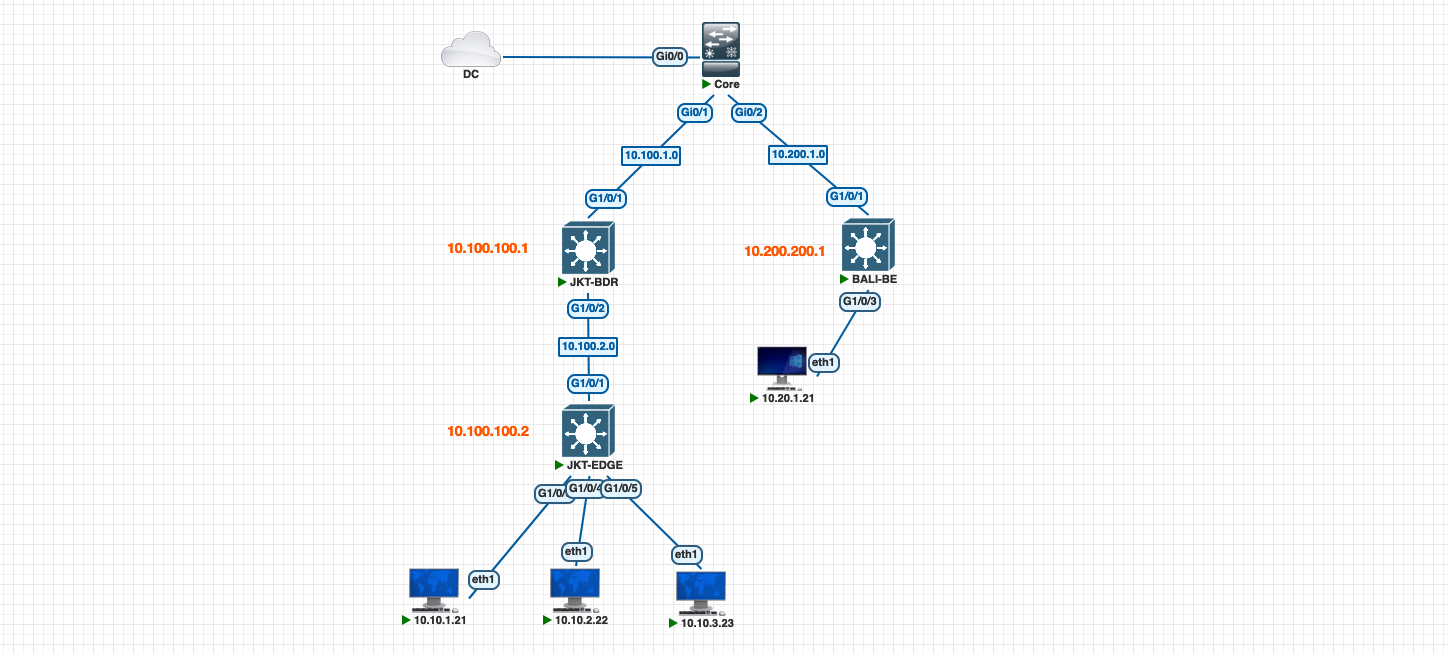
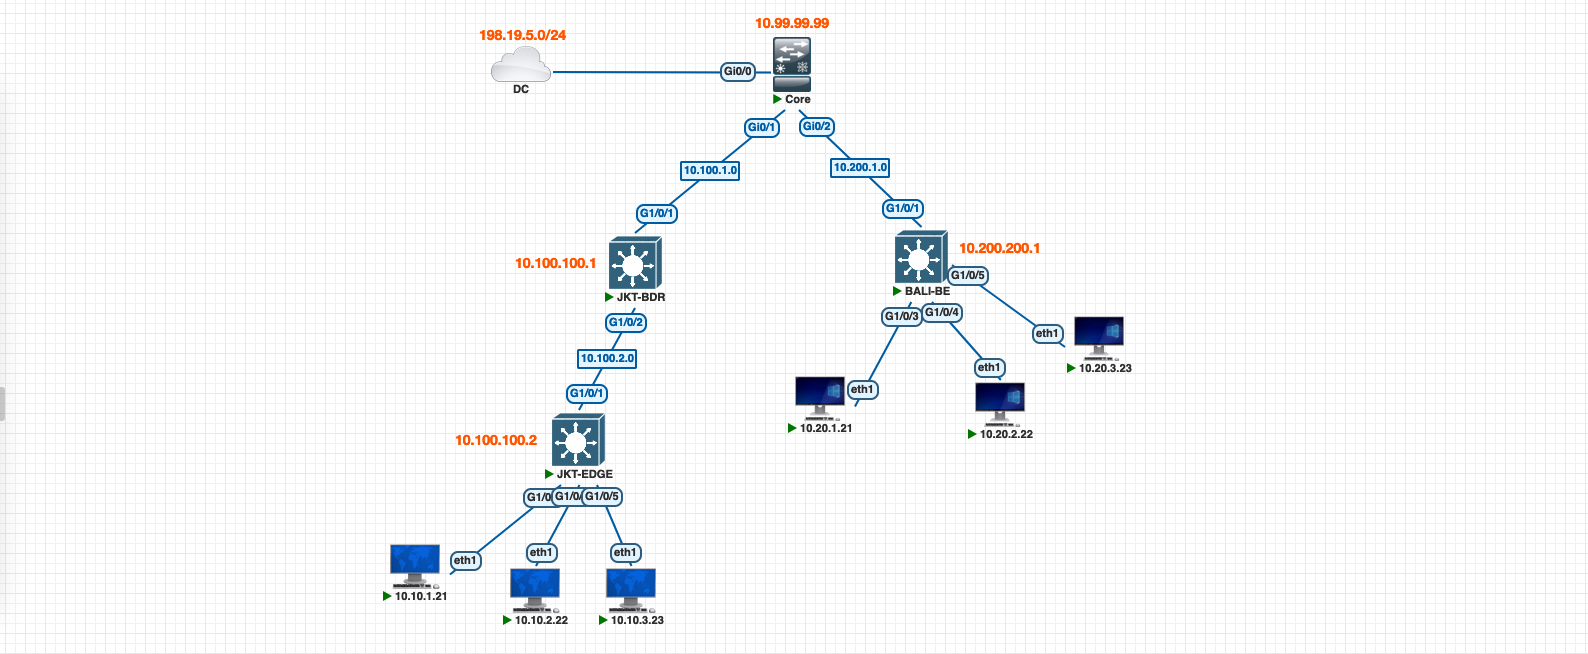
x

diff --git a/_posts/2024-11-23-sda.md b/_posts/2024-11-23-sda.md
@@ -245,15 +245,17 @@ Firstly make sure all NADs can access the DNAC and ISE
 
 Here is the minimum configuration needed for NAD before joining DNAC
 
-```JKT-EDGE
+```
 ## Enable Loopback0
 int loopback0
  ip add 10.100.100.2 255.255.255.255
 
 ## Enable Uplink Interface
-int Gi1/0/1
- no switchport
+int vlan 1001
  ip add 10.100.2.1 255.255.255.0
+
+int Gi1/0/1
+ switchport trunk allowed vlan 1001
 
 ## Local User
 username helena privilege 15 secret helena
@@ -302,13 +304,13 @@ After a minute DNAC has successfully discovered these 2 devices
 
 <br>
 
-This device now can be seen on Provision >> Inventory
+These devices now can be seen on Provision >> Inventory
 
 ![x](/static/2024-11-23-sda/43.png)
 
 <br>
 
-With that process, NADs also automatically created on the ISE side
+With that process, NADs are also automatically created on the ISE side
 
 ![x](/static/2024-11-23-sda/43a.png)
 
@@ -334,7 +336,7 @@ Review the summary then hit apply to start the provisioning process
 
 <br>
 
-On Activities >> Tasks, we can see the provisioning progress
+On Activities >> Tasks, here we can see the provisioning progress
 
 ![x](/static/2024-11-23-sda/47.png)
 
@@ -342,7 +344,7 @@ On Activities >> Tasks, we can see the provisioning progress
 
 ## Joining Fabric
 
-Now we can see that both devices are in the fabric, but they still dont have role in it
+Now we can see that both devices are in the fabric, but they still dont have roles in the SDA Fabric
 
 ![x](/static/2024-11-23-sda/48.png)
 
@@ -422,12 +424,13 @@ We discover, provision and assign role to this device in the fabric
 
 <br>
 
-And now this fabric is up and running, where client can access the network
+And now this second fabric is up and running, here client in this Bali Site can reach each other, but connectivity to other sites and to internet is still not available
 
 ![x](/static/2024-11-23-sda/61.png)
 
 <br>
 
+To allow external connectivity between sites or to internet, we have to configure [IP Transit](https://helenaferdy.github.io/posts/sda-ip-transit/)
 
 
 
